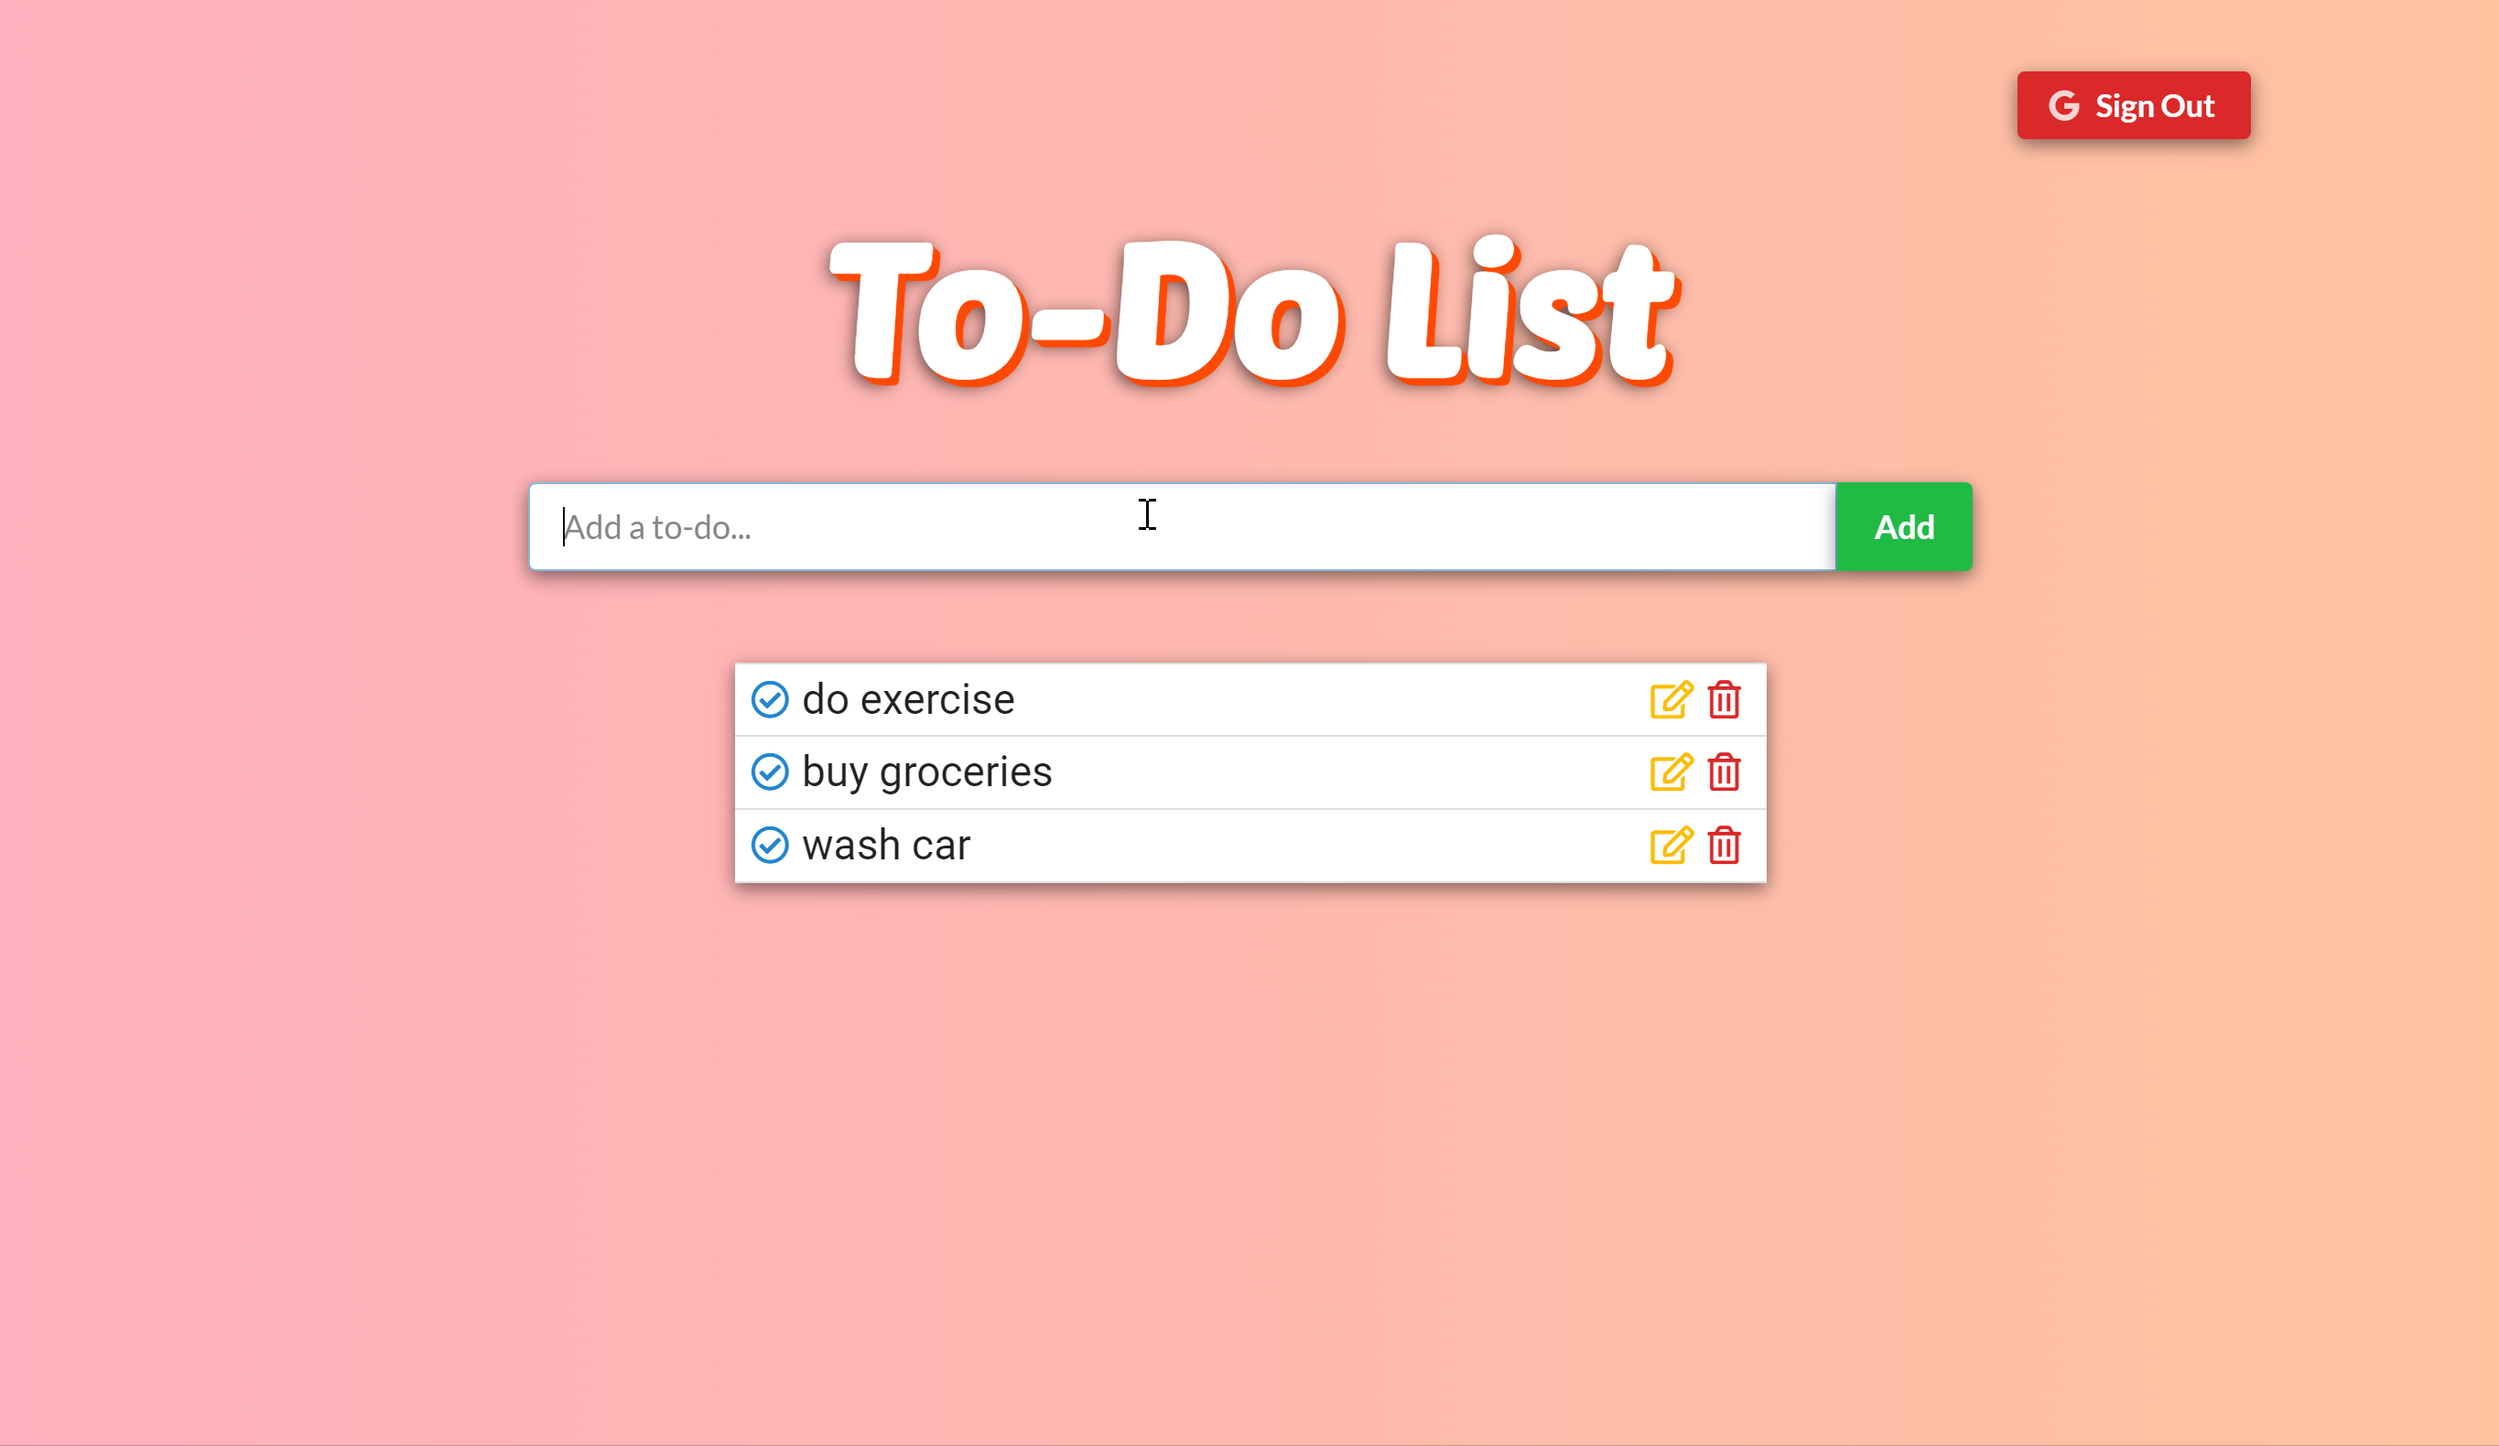
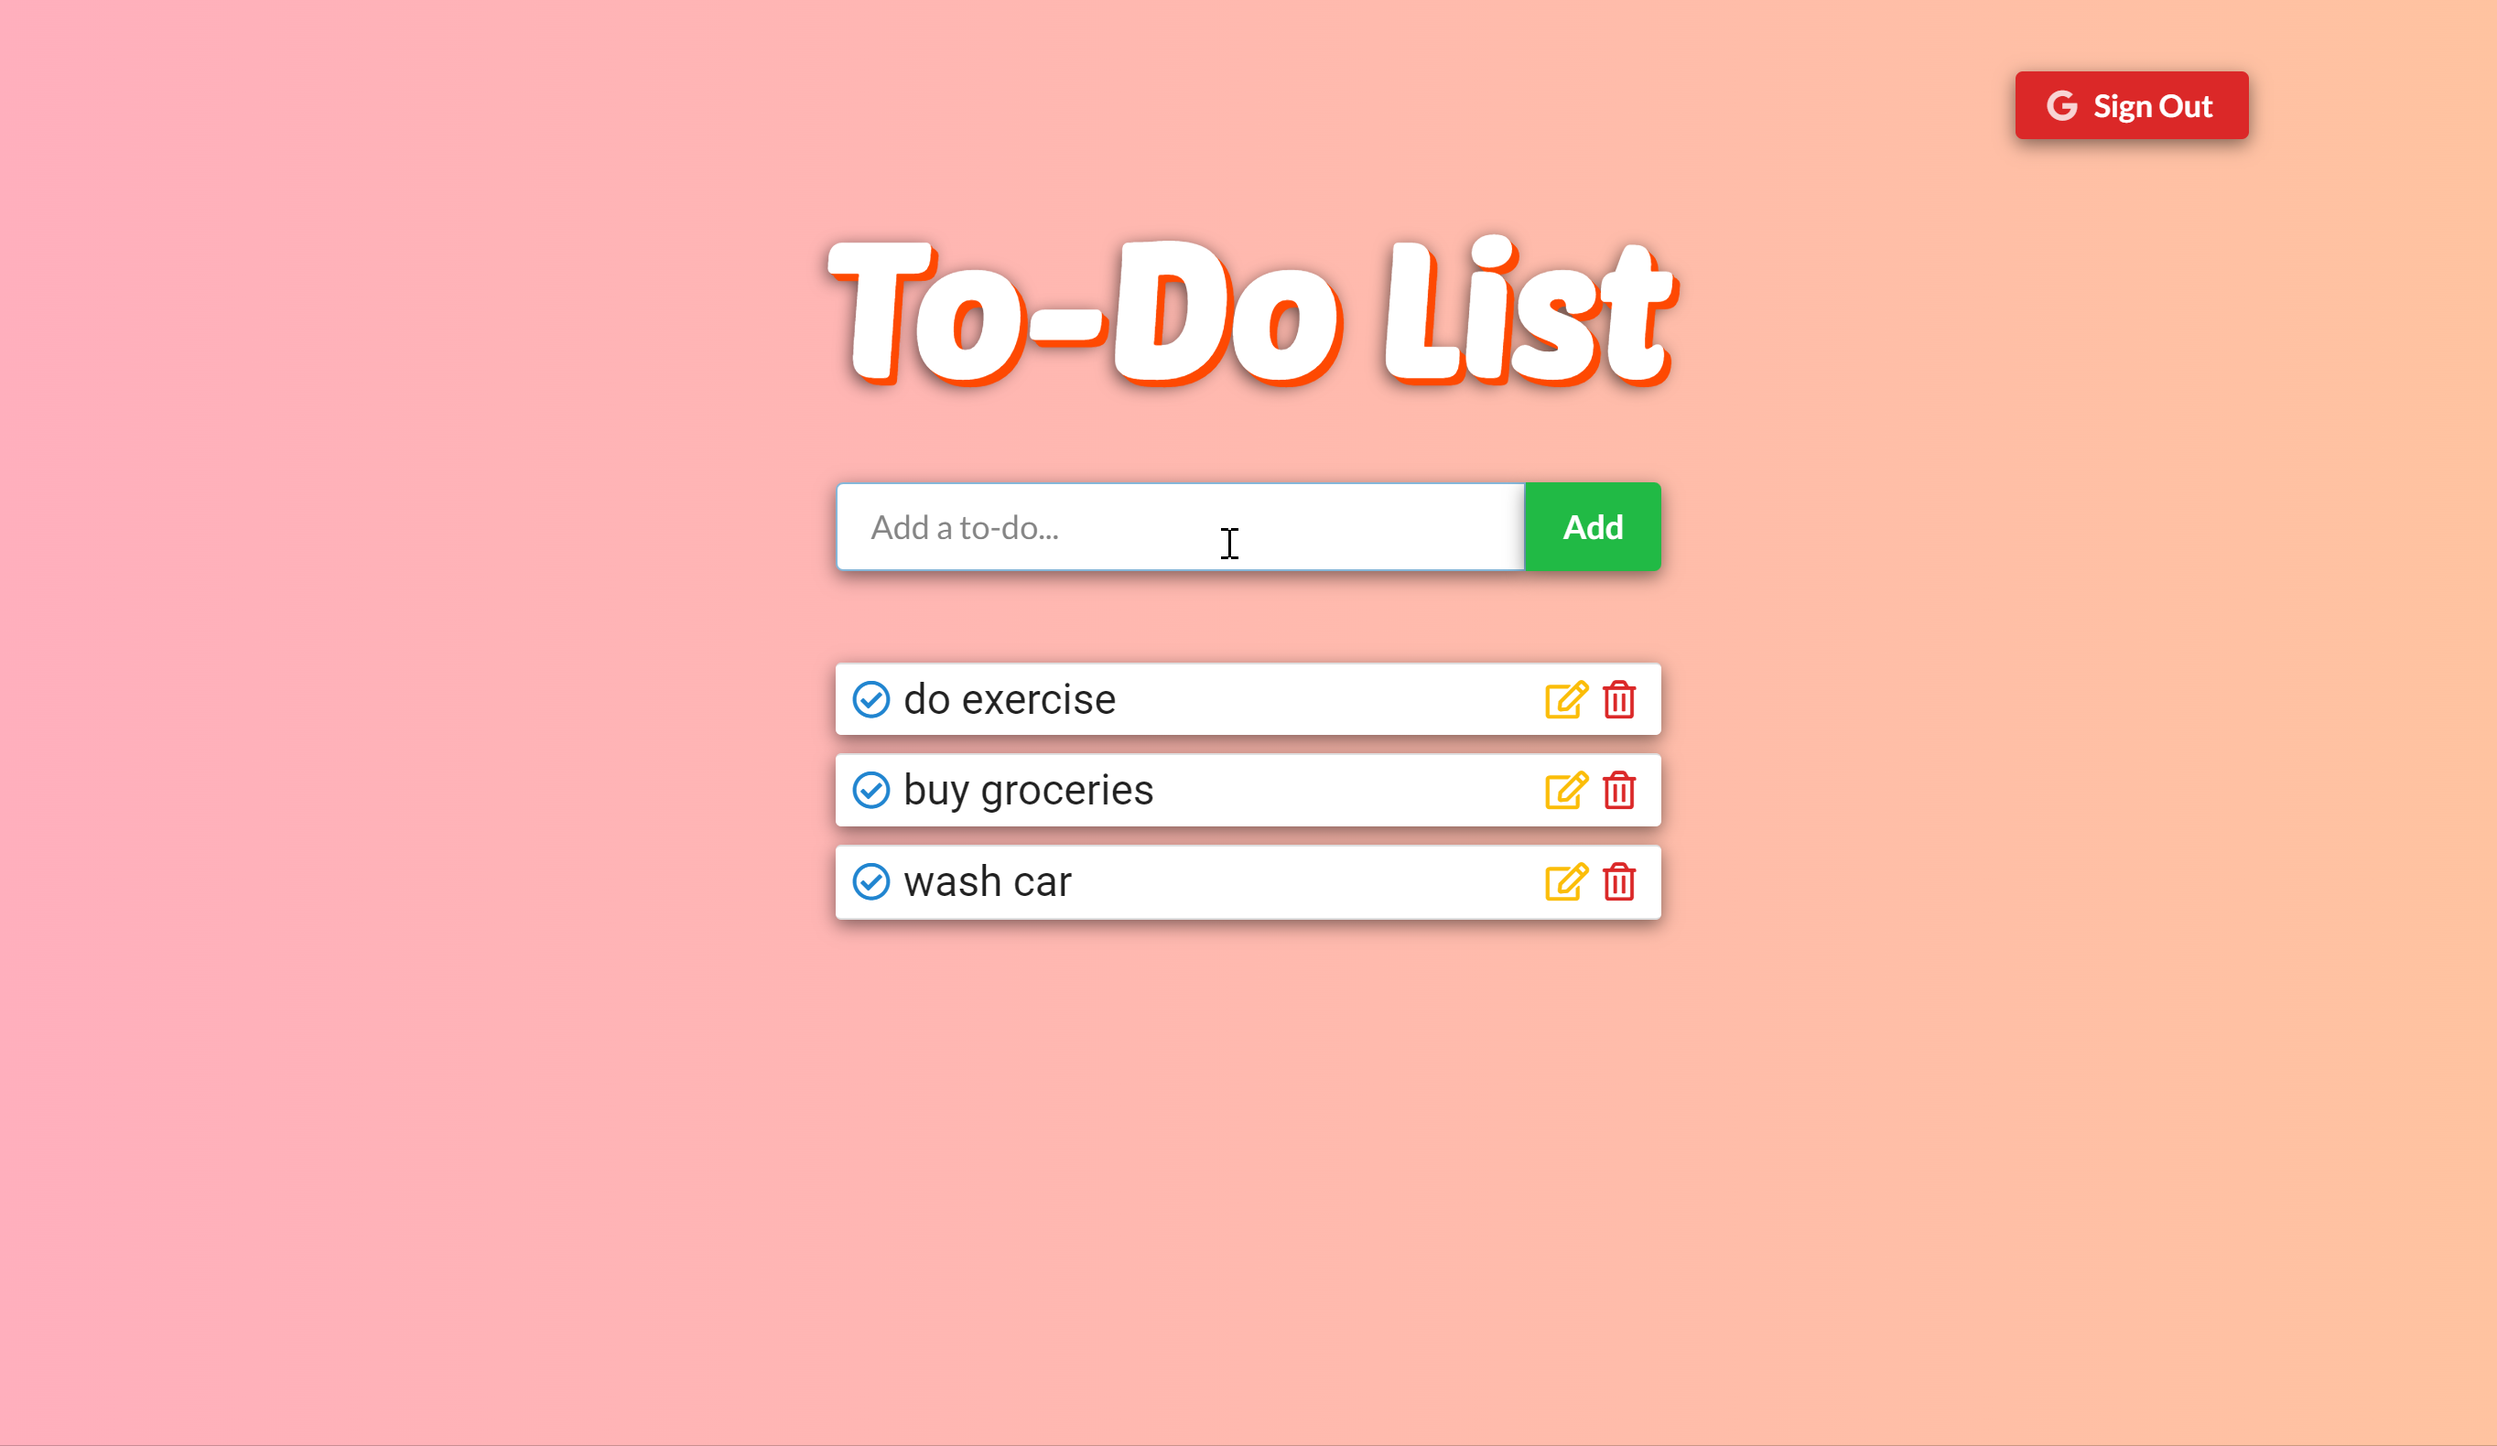
changed gif and image for hackernews app project

Changed region(s): [[0.2804, 0.4342, 0.7166, 0.6513], [0.592, 0.3101, 0.8101, 0.4032], [0.187, 0.3101, 0.4051, 0.4032]]

diff --git a/project2-gif.html b/project2-gif.html
@@ -17,7 +17,7 @@
 
 		<!-- Wrapper -->
 			<div id="wrapper">
-                  <img src="images/todo-list1.gif" class="gif" alt="Computer man" style="width:90%;">
+                  <img src="images/todo-list.gif" class="gif" alt="Computer man" style="width:90%;">
             </div>
 
 		<!-- BG -->
